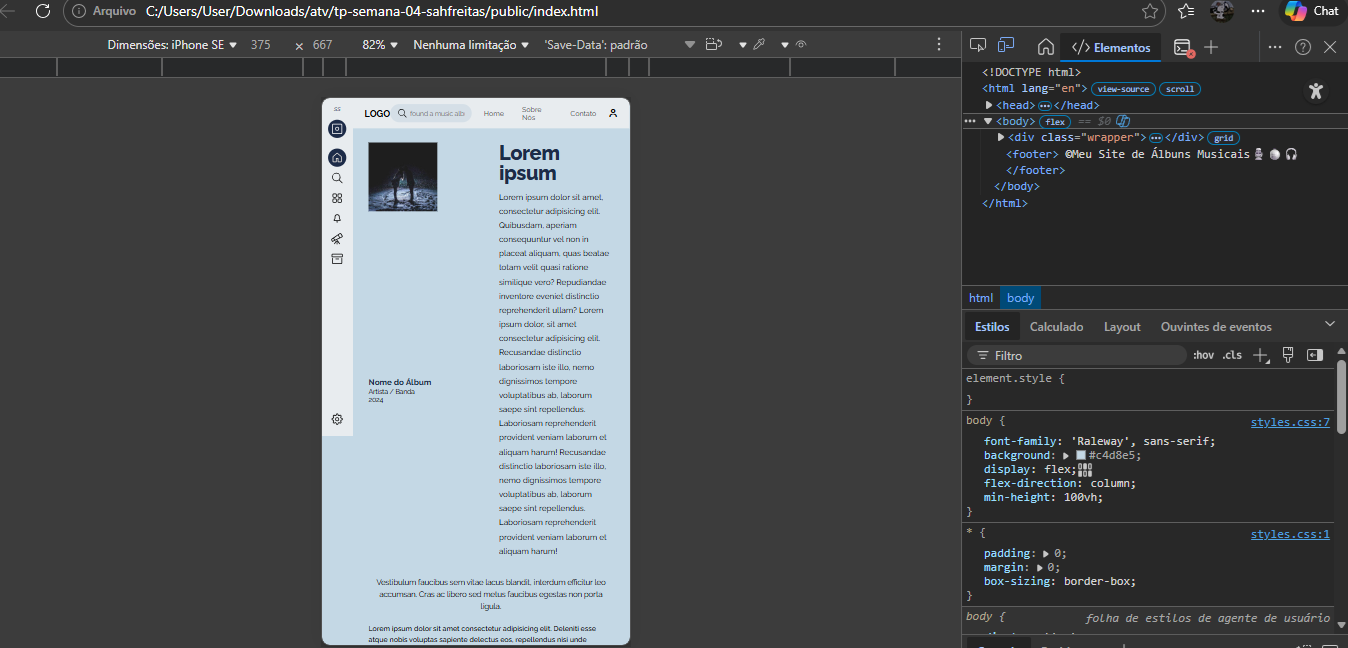
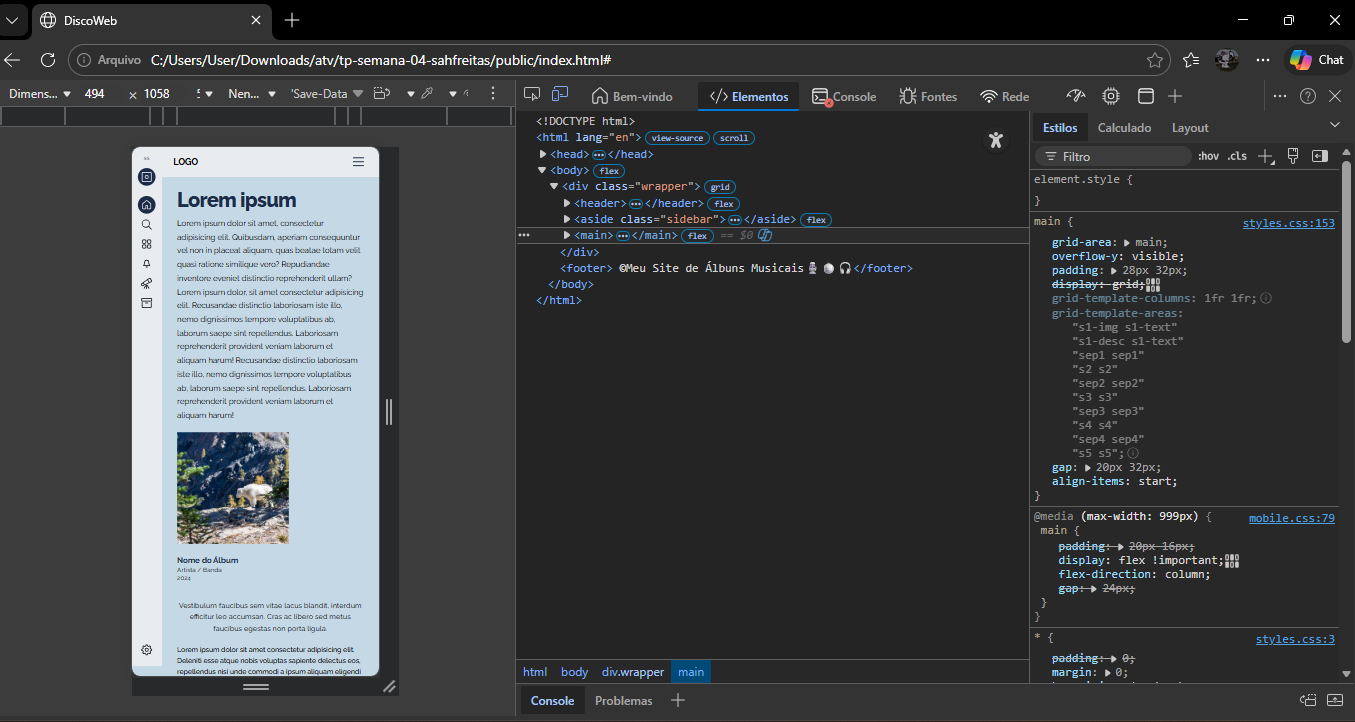
mobile css media

diff --git a/public/index.html b/public/index.html
@@ -20,13 +20,20 @@
             <div class="header-container">
                 <span class="logo">LOGO</span>
 
+                <input type="checkbox" id="menu-toggle">
+                <label class="hamburger" for="menu-toggle">
+                    <span class="line"></span>
+                    <span class="line"></span>
+                    <span class="line"></span>
+                </label>
+
                 <nav class="nav-links">
                     <div class="search-bar">
                         <svg xmlns="http://www.w3.org/2000/svg" viewBox="0 0 24 24" width="24" height="24">
                             <path
                                 d="M10.25 2a8.25 8.25 0 0 1 6.34 13.53l5.69 5.69a.749.749 0 0 1-.326 1.275.749.749 0 0 1-.734-.215l-5.69-5.69A8.25 8.25 0 1 1 10.25 2ZM3.5 10.25a6.75 6.75 0 1 0 13.5 0 6.75 6.75 0 0 0-13.5 0Z">
                             </path>
-                        </svg></i>
+                        </svg>
                         <input type="text" placeholder="found a album">
                     </div>
 
@@ -158,33 +165,15 @@
                     aut
                     at.</h2>
                 <div class="chips-grid">
-                    <div class="chip">
-                        <div class="chip-icon">✕</div> Lorem ipsum
-                    </div>
-                    <div class="chip">
-                        <div class="chip-icon">✕</div> Lorem ipsum
-                    </div>
-                    <div class="chip">
-                        <div class="chip-icon">✕</div> Lorem ipsum
-                    </div>
-                    <div class="chip">
-                        <div class="chip-icon">✕</div> Lorem ipsum
-                    </div>
-                    <div class="chip">
-                        <div class="chip-icon">✕</div> Lorem ipsum
-                    </div>
-                    <div class="chip">
-                        <div class="chip-icon">✕</div> Lorem ipsum
-                    </div>
-                    <div class="chip">
-                        <div class="chip-icon">✕</div> Lorem ipsum
-                    </div>
-                    <div class="chip">
-                        <div class="chip-icon">✕</div> Lorem ipsum
-                    </div>
-                    <div class="chip">
-                        <div class="chip-icon">✕</div> Lorem ipsum
-                    </div>
+                    <div class="chip"><div class="chip-icon">✕</div> Lorem ipsum</div>
+                    <div class="chip"><div class="chip-icon">✕</div> Lorem ipsum</div>
+                    <div class="chip"><div class="chip-icon">✕</div> Lorem ipsum</div>
+                    <div class="chip"><div class="chip-icon">✕</div> Lorem ipsum</div>
+                    <div class="chip"><div class="chip-icon">✕</div> Lorem ipsum</div>
+                    <div class="chip"><div class="chip-icon">✕</div> Lorem ipsum</div>
+                    <div class="chip"><div class="chip-icon">✕</div> Lorem ipsum</div>
+                    <div class="chip"><div class="chip-icon">✕</div> Lorem ipsum</div>
+                    <div class="chip"><div class="chip-icon">✕</div> Lorem ipsum</div>
                 </div>
             </section>
             <div class="sep sep3">Vestibulum faucibus sem vitae lacus blandit, interdum efficitur leo accumsan. Cras ac
@@ -197,7 +186,7 @@
                 <ul>
                     <li>
                         <img src="https://picsum.photos/id/237/200/300" alt="Capa do album">
-                        <span class="card-name">Nome do Artista</span>     
+                        <span class="card-name">Nome do Artista</span>
                         <span class="card-artist">Artista</span>
                     </li>
                     <li>
@@ -229,7 +218,6 @@
                 <label for="email">Email:</label>
                 <input type="email" id="email">
                 <button>Enviar</button>
-
             </section>
         </main>
     </div>

diff --git a/public/assetes/css/mobile.css b/public/assetes/css/mobile.css
@@ -1,0 +1,137 @@
+@media (max-width: 999px) {
+
+  body { overflow-x: hidden; }
+
+  .wrapper {
+    grid-template-columns: 1fr;
+    grid-template-rows: 60px 1fr;
+    grid-template-areas:
+      "header"
+      "main";
+  }
+
+  .sidebar { display: none; }
+
+  header {
+    position: sticky;
+    top: 0;
+    z-index: 100;
+  }
+
+  .header-container { padding: 0 16px; }
+
+  #menu-toggle { display: none; }
+
+  .hamburger {
+    display: flex;
+    flex-direction: column;
+    cursor: pointer;
+    width: 36px;
+    height: 36px;
+    border-radius: 50%;
+    align-items: center;
+    justify-content: center;
+    transition: background 0.2s;
+  }
+
+  .hamburger .line {
+    width: 22px;
+    height: 2px;
+    background: #1c2b48;
+    margin: 3px 0;
+    border-radius: 2px;
+    transition: 0.3s ease;
+    display: block;
+  }
+
+
+  .nav-links {
+    position: fixed;
+    top: 60px;
+    right: 0;
+    width: min(280px, 80vw);
+    height: calc(100vh - 60px);
+    background: #e8ecef;
+    flex-direction: column;
+    align-items: flex-start;
+    justify-content: flex-start;
+    padding: 24px 20px;
+    box-shadow: -4px 0 24px rgba(28,43,72,0.12);
+    transform: translateX(100%);
+    z-index: 99;
+  }
+
+  .nav-links .search-bar { width: 100%; margin-bottom: 20px; }
+
+  .nav-links a {
+    width: 100%;
+    padding: 14px 12px;
+    font-size: 15px;
+    font-weight: 600;
+    color: #1c2b48;
+    border-radius: 10px;
+  }
+
+
+
+  main {
+    padding: 20px 16px;
+    display: flex !important;
+    flex-direction: column;
+    gap: 24px;
+  }
+
+
+  .hero-text               { order: 1; width: 100%; }
+  section:nth-child(1) img { order: 2; width: 100%; aspect-ratio: 1/1; object-fit: cover; }
+  section:nth-child(1) h6  { order: 3; }
+  .sep1                    { order: 4; }
+  section:nth-child(3)     { order: 5; }
+  .sep2                    { order: 6; }
+  section:nth-child(5)     { order: 7; }
+  .sep3                    { order: 8; }
+  section:nth-child(7)     { order: 9; }
+  .sep4                    { order: 10; }
+  section:nth-child(9)     { order: 11; }
+
+  .hero-text h1 { font-size: 28px; }
+
+  /* Cards — um por linha */
+  section:nth-child(3) ul,
+  section:nth-child(7) ul {
+    display: flex;
+    flex-direction: column;
+    gap: 16px;
+  }
+
+  section:nth-child(3) li,
+  section:nth-child(7) li {
+    display: flex;
+    flex-direction: row;
+    align-items: center;
+    gap: 14px;
+  }
+
+  section:nth-child(3) li img,
+  section:nth-child(7) li img {
+    width: 72px;
+    height: 72px;
+    flex-shrink: 0;
+    object-fit: cover;
+  }
+
+  .chips-grid {
+    grid-template-columns: repeat(2, 1fr);
+  }
+
+  section:nth-child(9) {
+    align-items: stretch;
+  }
+
+  section:nth-child(9) label,
+  section:nth-child(9) input,
+  section:nth-child(9) button {
+    width: 100%;
+    max-width: 100%;
+  }
+}

diff --git a/public/assetes/css/styles.css b/public/assetes/css/styles.css
@@ -1,3 +1,5 @@
+@import url("mobile.css");
+
 * {
   padding: 0;
   margin: 0;
@@ -425,6 +427,10 @@ footer {
   text-align: center;
   background-color: #1c2b48;
   color: #e8ecef;
-  padding: 18px 24px;
   font-size: 13px;
+}
+#menu-toggle {
+  position: absolute;
+  opacity: 0;
+  pointer-events: none;
 }
